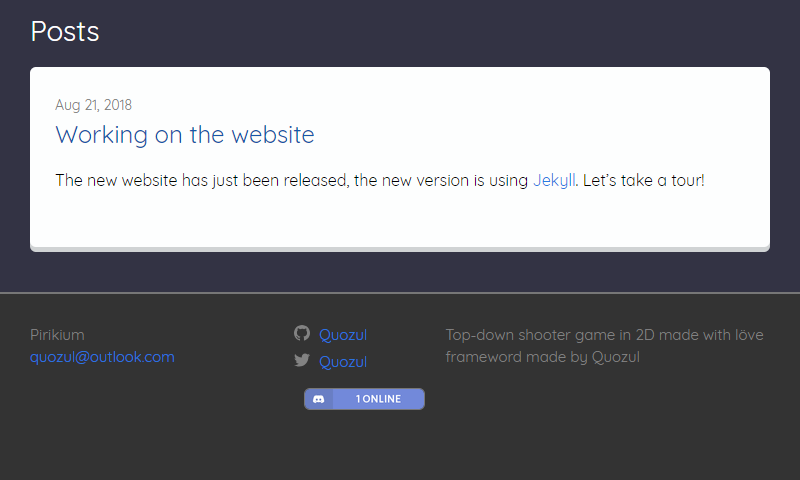
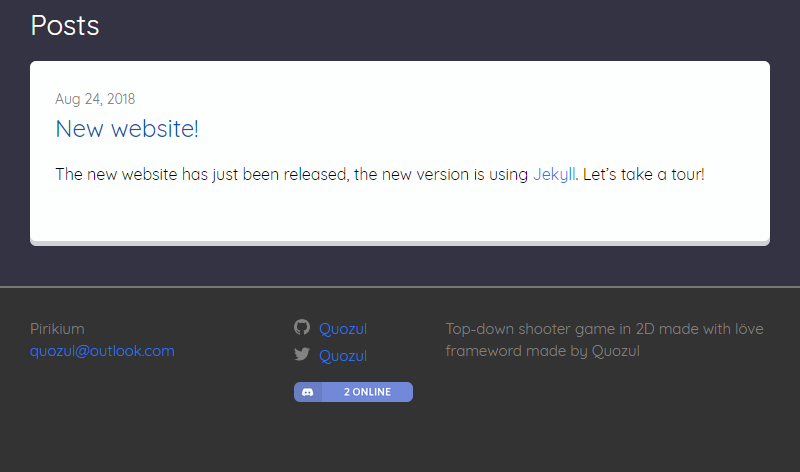
v1.0b

diff --git a/_includes/header.html b/_includes/header.html
@@ -29,49 +29,55 @@
         </nav>
         {%- endif -%}
     </div>
+    
 </header>
 
 <!-- Home heading -->
-{%- if layout.downloads -%} {%- assign date_format = site.minima.date_format | default: "%b %-d, %Y" -%}
+{%- if layout.downloads -%}
+{%- assign date_format = site.minima.date_format | default: "%b %-d, %Y" -%}
 <div class="home-heading">
+    
     <div class="wrapper">
         {%- for post in site.posts limit:1 -%}
         <div class="news-col">
             <p>
-            <h1>Latest post:</h1>
-            {%- if post.title -%}
-            <a class="post-link" href="{{ post.url | relative_url }}">
-                <h2>{{ post.title }}</h2>
-            </a>
-            {%- endif -%} {%- if post.image -%}
-            <img src="post.image" /> {%- endif -%}
+                <h1>Latest post:</h1>
+                {%- if post.title -%}
+                    <a class="post-link" href="{{ post.url | relative_url }}">
+                        <h2>{{ post.title }}</h2>
+                    </a>
+                {%- endif -%}
             </p>
-    </div>
-    <div class="news-col">
-        <p>
-            <span class="post-meta">
-                {{ post.date | date: date_format }}
-            </span>
-            {{ post.excerpt }}
+        </div>
+        <div class="news-col">
+            <p>
+                <span class="post-meta">
+                    {{ post.date | date: date_format }}
+                </span>
+                {{ post.excerpt | truncate: 150 }}
 
-            <a class="button read-more" href="{{ post.url | relative_url }}">READ MORE</a>
-        </p>
-    </div>
+                <div><a class="button read-more" href="{{ post.url | relative_url }}">READ MORE</a></div>
+            </p>
+        </div>
     {%- endfor -%}
+    </div>
+
+    <div class="downloads">
+        <h2>Downloads:</h2>
+
+        <a href="https://github.com/quozul/Pirikium" class="github-link">GitHub</a>
+        
+        <ul>
+            <li><a class="button green">Windows</a></li>
+            <li><a href="http://localhost:4000/requirements/">Minimum requirements</a></li>
+        </ul>
+
+        <ul>
+            <li><a href="https://github.com/quozul/Pirikium" class="button purple">GitHub</a></li>
+            <li><a href="https://github.com/quozul/Pirikium/wiki">Wiki</a></li>
+        </ul>
+    </div>
+
 </div>
 
-<div class="downloads">
-    <ul>
-        <li><a class="button green">Windows</a></li>
-        <li><a href="http://localhost:4000/requirements/">Minimum requirements</a></li>
-    </ul>
-
-    <ul>
-        <li><a href="https://github.com/quozul/Pirikium" class="button purple">GitHub</a></li>
-        <li><a href="https://github.com/quozul/Pirikium/wiki">Wiki</a></li>
-    </ul>
-
-    <a href="https://github.com/quozul/Pirikium" class="github-link">GitHub</a>
-</div>
-</div>
 {%- endif -%}

diff --git a/_sass/minima/_layout.scss b/_sass/minima/_layout.scss
@@ -314,57 +314,52 @@
     &:hover {
         border-bottom: solid 0;
     }
-}
 
-.green {
-    background-color: #27AE60;
-    color: #1E8449;
-}
+    &.green {
+        background-color: #27AE60;
+        color: #1E8449;
+    }
 
-.yellow {
-    background-color: #D4AC0D;
-    color: #B7950B;
-}
+    &.yellow {
+        background-color: #D4AC0D;
+        color: #B7950B;
+    }
 
-.red {
-    background-color: #A93226;
-    color: #7B241C;
-}
+    &.red {
+        background-color: #A93226;
+        color: #7B241C;
+    }
 
-.blue {
-    background-color: #884EA0;
-    color: #633974;
-}
+    &.blue {
+        background-color: #884EA0;
+        color: #633974;
+    }
 
-.purple {
-    background-color: #6C3483;
-    color: #5B2C6F;
-}
+    &.purple {
+        background-color: #6C3483;
+        color: #5B2C6F;
+    }
 
-.read-more {
-    background-color: #FDFEFE;
-    font-size: 18px;
-    padding: 10px;
-    box-shadow: 0 5px #D0D3D4;
+    &.read-more {
+        background-color: #FDFEFE;
+        font-size: 18px;
+        padding: 10px;
+        box-shadow: 0 5px #D0D3D4;
 
-    &:active {
-        box-shadow: 0 1px #D0D3D4;
+        &:active {
+            box-shadow: 0 1px #D0D3D4;
+        }
     }
 }
 
 .home-heading {
     display: block;
     text-align: center;
-    height: 400px;
+    height: 450px;
     margin: 0 0 100px 0;
     border-bottom: solid 2px #777;
     background-color: #333;
     padding: 20px;
-
-    .wrapper .news-col .post-link:hover {
-        border-radius: 4px 0;
-        background-color: #444;
-    }
 
     @include media-query($on-palm) {
         margin: 0 0 10px 0;
@@ -375,6 +370,8 @@
         float: left;
         width: 50%;
         height: 300px;
+        max-height: 300px;
+        overflow: hidden;
 
         p {
             padding: 25px;
@@ -383,15 +380,25 @@
         @include media-query($on-palm) {
             width: 100%;
             height: 250px;
+            
             p {
                 padding: 5px;
             }
+        }
+
+        .post-link:hover {
+            border-radius: 4px 0;
+            background-color: #444;
         }
     }
 
     .downloads {
         display: inline-block;
         height: 100px;
+        
+        h2 {
+            border-bottom: solid 2px #777;
+        }
 
         ul {
             list-style: none;
@@ -416,7 +423,7 @@
         }
 
         @include media-query($on-palm) {
-            ul {
+            h2, ul {
                 display: none;
             }
 

diff --git a/_layouts/post.html b/_layouts/post.html
@@ -6,13 +6,19 @@ layout: default
     <header class="post-header">
         <h1 class="post-title p-name" itemprop="name headline">{{ page.title | escape }}</h1>
         <p class="post-meta">
+            {%- assign date_format = site.minima.date_format | default: "%b %-d, %Y" -%}
             <time class="dt-published" datetime="{{ page.date | date_to_xmlschema }}" itemprop="datePublished">
-                {%- assign date_format = site.minima.date_format | default: "%b %-d, %Y" -%}
                 {{ page.date | date: date_format }}
             </time>
+            
+            {%- if page.edited -%}
+                <i title="{{ page.edited | date: date_format }}" style="font-size: 10px;">(edited) </i>
+            {%- endif -%}
+            
             {%- if page.author -%}
                 • <span>{{ page.author }}</span>
-            {%- endif -%}</p>
+            {%- endif -%}
+        </p>
     </header>
 
     <div class="post-content e-content" itemprop="articleBody">

diff --git a/_includes/head.html b/_includes/head.html
@@ -2,7 +2,7 @@
     <meta charset="utf-8">
     <meta http-equiv="X-UA-Compatible" content="IE=edge">
     <meta name="viewport" content="width=device-width, initial-scale=1">
-    <link rel="icon" type="image/png" href="icon.png"/>
+    <link rel="icon" type="image/png" href="/icon.png"/>
     <link rel="stylesheet" href="{{ "/assets/main.css" | relative_url }}">
     <title>{{ site.title }} | {{ site.description }}</title>
     {%- if jekyll.environment == 'production' and site.google_analytics -%}

diff --git a/_sass/minima/_base.scss b/_sass/minima/_base.scss
@@ -71,8 +71,7 @@ main {
 * Images
 */
 img {
-    margin: 10px;
-    border: solid 1px #777;
+    margin: 10px 0;
     border-radius: 6px;
     max-width: 100%;
     vertical-align: middle;

diff --git a/_posts/2018-08-23-new-website.md b/_posts/2018-08-23-new-website.md
@@ -2,10 +2,12 @@
 layout: post
 title:  "New website!"
 date:   2018-08-24 18:40 +0200
+edited: 2018-08-25 09:55 +0200
 categories: website
 author: "Quozul"
 ---
-The new website has just been released, the new version is using [Jekyll](https://jekyllrb.com/). Let's take a tour!  
+The new website has just been released, the new version is using [Jekyll](https://jekyllrb.com/). Let's take a tour!
+
 The usage of Jekyll on the website let us write posts to get you up-to-date.
 
 ### Front page
@@ -17,8 +19,8 @@ If you scroll down a bit, you'll start to see all the posts and some usefull lin
 <img src="/assets/posts/2018-08-24/bottom-front-page.png"/>
 
 ### A post
-There're nothing really special on this page, however you can see who written the post and the date.  
-(Uw, making a screenshot of someting I'm writing is quite a pain...)
+There're nothing really special on this page, however you can see who written the post, the date of creation and if the post was edited, the edition date.  
+(Making a screenshot of someting I'm currently writing is quite a pain...)
 <img src="/assets/posts/2018-08-24/post.png"/>
 
 ### Other projects
@@ -33,5 +35,5 @@ You can access both __About__ and __Other projects__ page with the menu at the t
 
 #### Phones
 And of course, the website works on phones!  
-(Yes that's an iPod but it works like a phone...)
+(Yes that's an iPod but it work like a phone...)  
 <img src="/assets/posts/2018-08-24/phone.png" width="50%"/>
